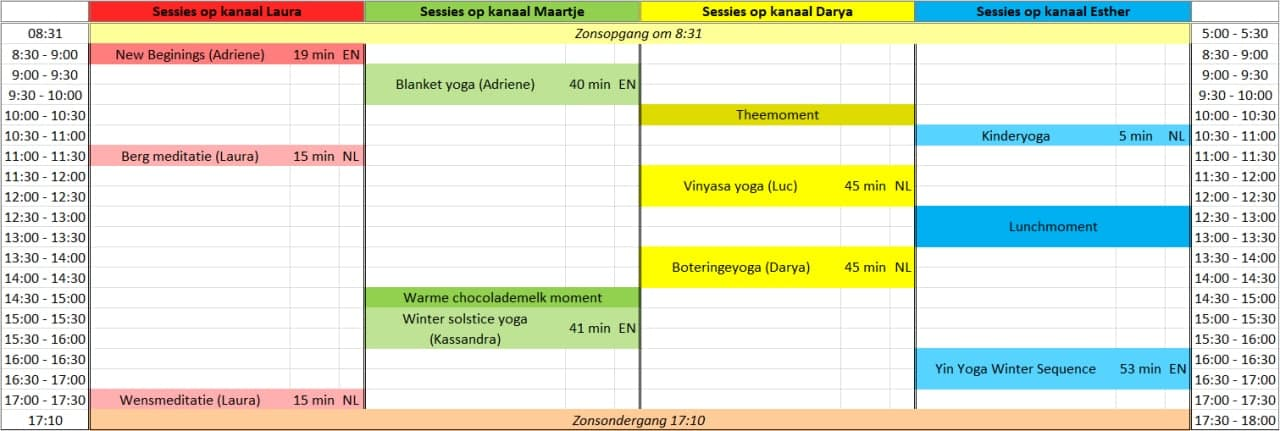
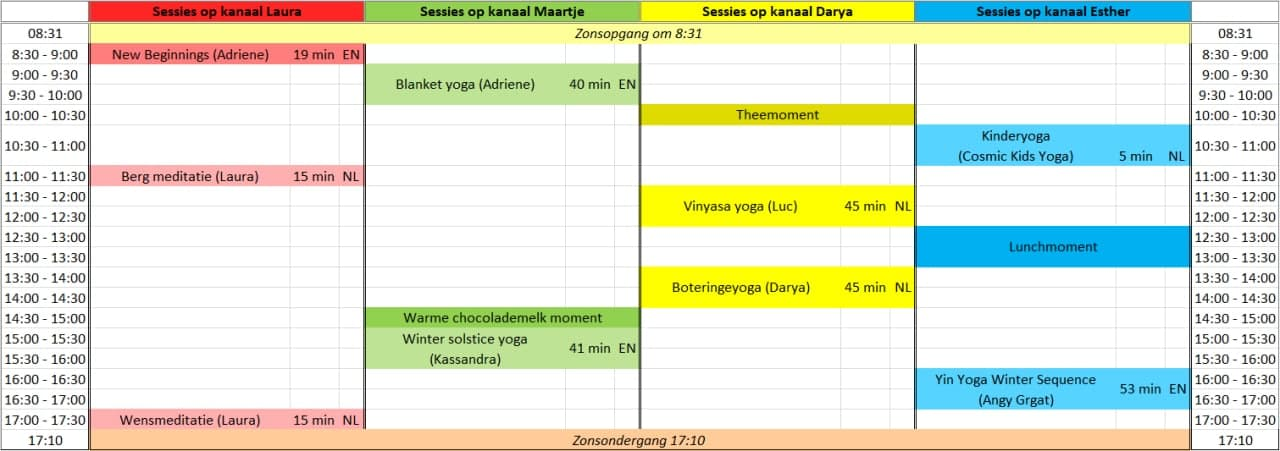
aanpassing rooster en aanpassing opmaak sessies pagina

Changed region(s): [[0.0, 0.0, 1.0, 1.0], [0.4375, 0.935, 0.5625, 0.9954], [0.6875, 0.935, 0.7188, 0.9652]]

diff --git a/Yogafestival/festival/programma.html b/Yogafestival/festival/programma.html
@@ -36,7 +36,7 @@
                     <a href="https://meet.google.com/quz-bjxq-pex" target="_blank">DEELNEMEN</a><br><br><br>
                 </td>
                 <td>
-                    <b>Taal:</b> Engels <br>
+                    <br><b>Taal:</b> Engels <br>
                     <b>Duur:</b> 19 minuten <br>
                     <b>Bron:</b> Yoga with Adriene <br>
                 </td>
@@ -52,7 +52,7 @@
                     <a href="https://meet.google.com/oqt-wqef-iuf" target="_blank">DEELNEMEN</a><br><br><br>
                 </td>
                 <td>
-                    <b>Taal:</b> Engels <br>
+                    <br><b>Taal:</b> Engels <br>
                     <b>Duur:</b> 40 minuten <br>
                     <b>Bron:</b> Yoga with Adriene
                 </td>
@@ -77,7 +77,7 @@
                     <a href="https://meet.google.com/snn-kcfu-nra" target="_blank">DEELNEMEN</a><br><br><br>
                 </td>
                 <td>
-                    <b>Taal:</b> Nederlands <br>
+                    <br><b>Taal:</b> Nederlands <br>
                     <b>Duur:</b> 5 minuten <br>
                     <b>Bron:</b> Cosmic Kids <br>
                 </td>
@@ -93,7 +93,7 @@
                     <a href="https://meet.google.com/quz-bjxq-pex" target="_blank">DEELNEMEN</a><br><br><br>
                 </td>
                 <td>
-                    <b>Taal:</b> Nederlands <br>
+                    <br><b>Taal:</b> Nederlands <br>
                     <b>Duur:</b> 15 minuten <br>
                     <b>Bron:</b> Liveles van Laura
                 </td>
@@ -108,7 +108,7 @@
                     <a href="https://meet.google.com/umk-qzcn-ckr" target="_blank">DEELNEMEN</a><br><br><br>
                 </td>
                 <td>
-                    <b>Taal:</b> Nederlands <br>
+                    <br><b>Taal:</b> Nederlands <br>
                     <b>Duur:</b> 45 minuten <br>
                     <b>Bron:</b> Liveles van Luc <br>
 
@@ -136,7 +136,7 @@
                     <a href="https://meet.google.com/umk-qzcn-ckr" target="_blank">DEELNEMEN</a><br><br><br>
                 </td>
                 <td>
-                    <b>Taal:</b> Nederlands <br>
+                    <br><b>Taal:</b> Nederlands <br>
                     <b>Duur:</b> 45 minuten <br>
                     <b>Bron:</b> Liveles van Darya
 
@@ -166,7 +166,7 @@
                     <a href="https://meet.google.com/oqt-wqef-iuf" target="_blank">DEELNEMEN</a><br><br><br>
                 </td>
                 <td>
-                    <b>Taal:</b> Engels <br>
+                    <br><b>Taal:</b> Engels <br>
                     <b>Duur:</b> 41 minuten <br>
                     <b>Bron:</b> Yoga with Kassandra <br>
                 </td>
@@ -186,7 +186,7 @@
                 </td>
                 </td>
                 <td>
-                    <b>Taal:</b> Engels <br>
+                    <br><b>Taal:</b> Engels <br>
                     <b>Duur:</b> 53 minuten <br>
                     <b>Bron:</b> Yoga with Angie Grgat <br>
 
@@ -202,7 +202,7 @@
                     <a href="https://meet.google.com/quz-bjxq-pex" target="_blank">DEELNEMEN</a><br><br><br>
                 </td>
                 <td>
-                    <b>Taal:</b> Nederlands <br>
+                    <br><b>Taal:</b> Nederlands <br>
                     <b>Duur:</b> 15 minuten <br>
                     <b>Bron:</b> Liveles van Laura <br>
                 </td>

diff --git a/Yogafestival/festival/style.css b/Yogafestival/festival/style.css
@@ -84,7 +84,12 @@ main nav {
 }
 
 table {
-    border-spacing: 25px
+    border-spacing: 25px;
+    
+}
+
+table p{
+    margin-block-start: 0.5em
 }
 
 
